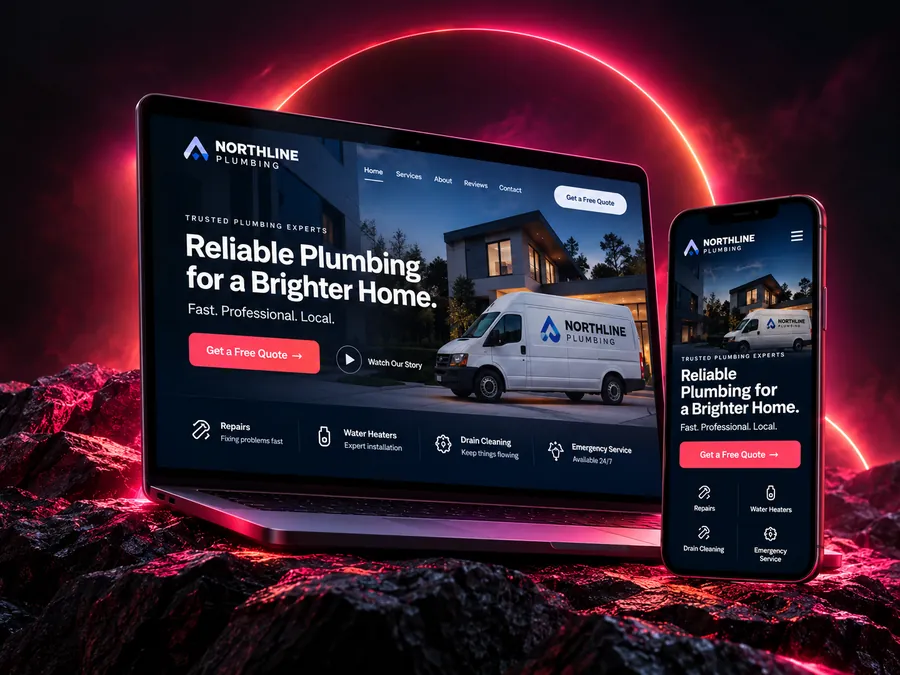
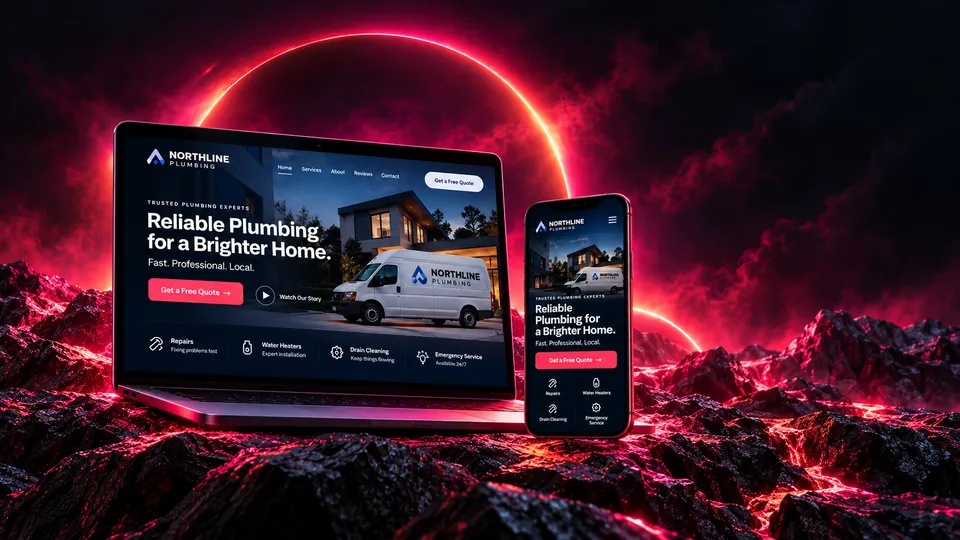
Add phone and tablet menu; new hero and Design with purpose photos
Claude-Session: https://claude.ai/code/session_01TLyxz4xV85Pj5AXPiLvVwY

diff --git a/index.html b/index.html
@@ -275,7 +275,7 @@
 <link rel="preconnect" href="https://fonts.googleapis.com">
 <link rel="preconnect" href="https://fonts.gstatic.com" crossorigin="">
 <link href="https://fonts.googleapis.com/css2?family=Bodoni+Moda:ital,wght@0,600;0,700;0,800;1,600;1,700;1,800&amp;family=Archivo:wght@400;500;600;700;800&amp;family=Archivo+Black&amp;family=Space+Grotesk:wght@500;600;700&amp;family=Cormorant+Garamond:ital,wght@0,600;0,700;1,600;1,700&amp;display=swap" rel="stylesheet">
-<link rel="preload" as="image" href="/hero-devices.webp" imagesrcset="/hero-devices-900.webp 900w, /hero-devices.webp 1448w" imagesizes="(max-width: 1020px) 100vw, 58vw" type="image/webp" fetchpriority="high">
+<link rel="preload" as="image" href="/hero-devices.webp" imagesrcset="/hero-devices-900.webp 960w, /hero-devices.webp 1672w" imagesizes="(max-width: 1020px) 100vw, 68vw" type="image/webp" fetchpriority="high">
 <!-- Akira Digital AI Assistant: external (CSP 'self') so it runs; the app framework blocks inline scripts -->
 <script src="/akira-widget-init.js"></script>
 <script src="./resources.js"></script>
@@ -654,10 +654,28 @@
   /* ---------- hero v3: supplied device photo ---------- */
   .akx-hero2 { background: radial-gradient(ellipse 45% 50% at 8% 0%, rgba(var(--akx-coral),.14), transparent 70%), rgb(8,6,9); }
   .akx-hero2 .akx-hero-grid { padding-bottom: 0; }
-  @media (min-width: 1021px) { .akx-hero2 .akx-hero-grid { grid-template-columns: minmax(0, .95fr) minmax(0, 1.05fr); } }
-  .akx-shot { position: relative; z-index: 1; margin: clamp(-5rem, -6vw, -2rem) clamp(-3rem, -4vw, -1.25rem) 0 -20%; }
-  .akx-shot img { display: block; width: 100%; height: auto; -webkit-mask-image: linear-gradient(90deg, transparent 0%, #000 20%), linear-gradient(0deg, transparent 0%, #000 16%), linear-gradient(180deg, transparent 0%, #000 12%); -webkit-mask-composite: source-in; mask-image: linear-gradient(90deg, transparent 0%, #000 20%), linear-gradient(0deg, transparent 0%, #000 16%), linear-gradient(180deg, transparent 0%, #000 12%); mask-composite: intersect; }
+  @media (min-width: 1021px) { .akx-hero2 .akx-hero-grid { grid-template-columns: minmax(0, .66fr) minmax(0, 1.34fr); gap: clamp(1.5rem, 3vw, 3rem); } .akx-hero2 .akx-h1 { font-size: clamp(2rem, 3.22vw, 3.15rem); } .akx-hero2 .akx-hero-sub { font-size: 1.02rem; } .akx-hero2 .akx-hero-ctas { flex-wrap: nowrap; gap: .7rem; } .akx-hero2 .akx-hero-ctas .akx-btn { padding: .85rem 1.05rem; font-size: .72rem; letter-spacing: .1em; gap: .5rem; } .akx-hero2 .akx-hero-tags2 { display: grid; grid-template-columns: auto auto; justify-content: start; gap: .7rem 2rem; } }
+  .akx-shot { position: relative; z-index: 1; margin: clamp(-3rem, -3vw, -1rem) clamp(-3rem, -4vw, -1.25rem) 0 -14%; }
+  .akx-shot img { display: block; width: 100%; height: auto; -webkit-mask-image: linear-gradient(90deg, transparent 0%, #000 11%, #000 94%, transparent 100%), linear-gradient(0deg, transparent 0%, #000 14%), linear-gradient(180deg, transparent 0%, #000 10%); -webkit-mask-composite: source-in; mask-image: linear-gradient(90deg, transparent 0%, #000 11%, #000 94%, transparent 100%), linear-gradient(0deg, transparent 0%, #000 14%), linear-gradient(180deg, transparent 0%, #000 10%); mask-composite: intersect; }
   @media (max-width: 1020px) { .akx-shot { margin: 0 clamp(-3rem, -4vw, -1.25rem); } .akx-shot img { -webkit-mask-image: linear-gradient(0deg, transparent 0%, #000 16%), linear-gradient(180deg, transparent 0%, #000 12%); mask-image: linear-gradient(0deg, transparent 0%, #000 16%), linear-gradient(180deg, transparent 0%, #000 12%); } }
+
+  /* ---------- design with purpose photo ---------- */
+  .akx-approach-photo { position: relative; border-radius: 16px; overflow: hidden; border: 1px solid rgba(var(--akx-pink),.35); box-shadow: 0 30px 80px rgba(0,0,0,.55), 0 0 50px rgba(var(--akx-pink),.16); }
+  .akx-approach-photo img { display: block; width: 100%; height: auto; }
+  @media (max-width: 1020px) { .akx-approach-photo { order: 2; } }
+  /* ---------- menu for phones and tablets ---------- */
+  .akx-burger { display: none; flex: 0 0 auto; width: 44px; height: 44px; padding: 0; border-radius: 8px; border: 1px solid rgba(255,255,255,.28); background: rgba(255,255,255,.04); cursor: pointer; flex-direction: column; align-items: center; justify-content: center; gap: 5px; }
+  .akx-burger span { display: block; width: 20px; height: 2px; border-radius: 2px; background: #fff; transition: transform .22s ease, opacity .18s ease; }
+  .akx-menu { position: absolute; left: 0; right: 0; top: 100%; max-height: calc(100vh - 4.6rem); max-height: calc(100dvh - 4.6rem); overflow-y: auto; padding: .6rem clamp(1.25rem, 4vw, 3rem) 1.6rem; box-sizing: border-box; background: #0b0b0e !important; border-bottom: 1px solid rgba(var(--akx-pink),.45); box-shadow: 0 30px 60px rgba(0,0,0,.6); }
+  .akx-menu-link, a.akx-menu-link { display: flex; align-items: center; min-height: 52px; border-bottom: 1px solid rgba(255,255,255,.08); font-size: 1.1rem; font-weight: 600; color: #fff; }
+  .akx-menu-link:hover { color: rgb(var(--akx-pink)); }
+  .akx-menu-foot { display: flex; flex-wrap: wrap; align-items: center; gap: .9rem 1.2rem; padding-top: 1.3rem; }
+  .akx-menu-tel, a.akx-menu-tel { display: inline-flex; align-items: center; gap: .55rem; min-height: 44px; font-size: 1.02rem; font-weight: 700; color: #fff; }
+  .akx-menu-tel svg { width: 16px; height: 16px; color: rgb(var(--akx-pink)); }
+  .akx-menu-foot .akx-btn { flex: 1 1 100%; }
+  @media (max-width: 1240px) { .akx-burger { display: inline-flex; } }
+  @media (min-width: 1241px) { .akx-menu { display: none !important; } }
+  @media (max-width: 420px) { .akx-nav-cta { padding: .5rem .6rem !important; font-size: .62rem !important; } .akx-burger, .akx-nav a[href^="tel:"]:not(.akx-menu-tel) { width: 40px; min-width: 40px; padding-left: 0 !important; padding-right: 0 !important; justify-content: center; } .akx-nav-right { gap: .35rem !important; } .akx-nav { padding-left: .75rem !important; padding-right: .75rem !important; } }
 </style>
 </head>
 <body>
@@ -687,6 +705,15 @@
 
       <a href="tel:+13234054959" aria-label="Call Akira Digital on (323) 405-4959" style="display: inline-flex; align-items: center; gap: .5rem; padding: .65rem 1rem; min-height: 44px; box-sizing: border-box; border-radius: 8px; border: 1px solid rgba(var(--akx-pink),.45); background: rgba(var(--akx-pink),.08); color: rgb(var(--ak-ink-rgb)); font-family: 'Archivo', sans-serif; font-weight: 700; font-size: .76rem; letter-spacing: .04em; white-space: nowrap; transition: all .18s ease;" style-hover="border-color: rgba(var(--akx-pink),.9); background: rgba(var(--akx-pink),.16);"><svg width="13" height="13" viewBox="0 0 24 24" fill="none" stroke="currentColor" stroke-width="2.2" stroke-linecap="round" stroke-linejoin="round" aria-hidden="true" focusable="false"><path d="M22 16.92v3a2 2 0 0 1-2.18 2 19.79 19.79 0 0 1-8.63-3.07 19.5 19.5 0 0 1-6-6 19.79 19.79 0 0 1-3.07-8.67A2 2 0 0 1 4.11 2h3a2 2 0 0 1 2 1.72c.13.96.36 1.9.7 2.81a2 2 0 0 1-.45 2.11L8.09 9.91a16 16 0 0 0 6 6l1.27-1.27a2 2 0 0 1 2.11-.45c.9.34 1.85.57 2.81.7A2 2 0 0 1 22 16.92z"/></svg><span class="ak-tel-num">(323) 405-4959</span></a>
       <a href="#contact" class="akx-btn akx-btn-primary akx-btn-sm akx-nav-cta">Start a Project <span class="akx-nav-cta-arrow" aria-hidden="true">→</span></a>
+      <button type="button" class="akx-burger" aria-label="Menu" aria-controls="akx-menu" aria-expanded="{{ navExpanded }}" onClick="{{ navToggle }}"><span style="transform: {{ navBar1 }};"></span><span style="opacity: {{ navBar2 }};"></span><span style="transform: {{ navBar3 }};"></span></button>
+    </div>
+    <div id="akx-menu" class="akx-menu" style="display: {{ navDisplay }};">
+      <a href="#services" class="akx-menu-link" onClick="{{ navClose }}">Services</a><a href="#concepts" class="akx-menu-link" onClick="{{ navClose }}">Concepts</a><a href="#industries" class="akx-menu-link" onClick="{{ navClose }}">Industries</a><a href="#about" class="akx-menu-link" onClick="{{ navClose }}">About</a><a href="#pricing" class="akx-menu-link" onClick="{{ navClose }}">Pricing</a><a href="#faq" class="akx-menu-link" onClick="{{ navClose }}">Questions</a><a href="#contact" class="akx-menu-link" onClick="{{ navClose }}">Contact</a>
+      <div class="akx-menu-foot">
+        <span class="akx-live"><i></i><b>Taking projects</b></span>
+        <a href="tel:+13234054959" class="akx-menu-tel" onClick="{{ navClose }}"><svg width="13" height="13" viewBox="0 0 24 24" fill="none" stroke="currentColor" stroke-width="2.2" stroke-linecap="round" stroke-linejoin="round" aria-hidden="true" focusable="false"><path d="M22 16.92v3a2 2 0 0 1-2.18 2 19.79 19.79 0 0 1-8.63-3.07 19.5 19.5 0 0 1-6-6 19.79 19.79 0 0 1-3.07-8.67A2 2 0 0 1 4.11 2h3a2 2 0 0 1 2 1.72c.13.96.36 1.9.7 2.81a2 2 0 0 1-.45 2.11L8.09 9.91a16 16 0 0 0 6 6l1.27-1.27a2 2 0 0 1 2.11-.45c.9.34 1.85.57 2.81.7A2 2 0 0 1 22 16.92z"/></svg><span>(323) 405-4959</span></a>
+        <a href="#contact" class="akx-btn akx-btn-primary" onClick="{{ navClose }}">Start a Project <span aria-hidden="true">→</span></a>
+      </div>
     </div>
   </nav>
 
@@ -706,7 +733,7 @@
           </div>
         </div>
         <div class="akx-shot">
-          <img src="/hero-devices.webp" srcset="/hero-devices-900.webp 900w, /hero-devices.webp 1448w" sizes="(max-width: 1020px) 100vw, 58vw" alt="A plumbing company website designed by Akira Digital, shown on a laptop and a phone" width="1448" height="1086" decoding="async" fetchpriority="high">
+          <img src="/hero-devices.webp" srcset="/hero-devices-900.webp 960w, /hero-devices.webp 1672w" sizes="(max-width: 1020px) 100vw, 68vw" alt="A plumbing company website designed by Akira Digital, shown on a laptop and a phone" width="1672" height="941" decoding="async" fetchpriority="high">
         </div>
       </div>
     </div>
@@ -718,11 +745,8 @@
 
   <section id="approach" class="akx-sec akx-sec--alt">
     <div class="akx-wrap akx-approach">
-      <div class="akx-approach-art" aria-hidden="true">
-        <div class="akx-laptop">
-          <div class="akx-laptop-screen"><div class="akx-site" style="font-family: 'Cormorant Garamond', Georgia, serif; color: #ffffff;"><img class="akx-site-photo" src="/concepts/ember-oak-med-spa.jpg" alt="Med spa website concept showing a softly lit treatment room" width="1000" height="625" decoding="async" loading="lazy"><div class="akx-site-shade" style="background: linear-gradient(90deg, rgba(46,27,18,.9) 0%, rgba(46,27,18,.62) 48%, rgba(46,27,18,.05) 100%);"></div><div class="akx-site-bar"><span class="akx-site-logo">Ember &amp; Oak<small>Med Spa</small></span><span class="akx-site-nav"><span>Home</span><span>Services</span><span>About</span><span>Contact</span></span><span class="akx-site-pill" style="background: #f6ede4; color: #3a2418;">Book Appointment</span></div><div class="akx-site-body"><div class="akx-site-h">Advanced Aesthetics. Natural Results.</div><div class="akx-site-sub">Confidence looks good on you.</div><span class="akx-site-cta" style="background: #E5604F; color: #ffffff;">Book a Consultation →</span></div></div></div>
-          <div class="akx-laptop-base"></div>
-        </div>
+      <div class="akx-approach-photo">
+        <img src="/design-with-purpose.webp" srcset="/design-with-purpose-800.webp 800w, /design-with-purpose.webp 1448w" sizes="(max-width: 1020px) 100vw, 52vw" alt="A med spa website concept by Akira Digital, shown on a laptop on a dark marble table" width="1448" height="1086" loading="lazy" decoding="async">
       </div>
       <div>
         <span class="akx-eyebrow">Design with purpose</span>
@@ -1659,7 +1683,7 @@ class Component extends DCLogic {
   state = {
     bizName: '', bizWhat: '', bizCity: '', accent: 'rgb(var(--ak-accent-rgb))',
     size: 1, addons: { calls: false, seo: false, brand: false, logo: false, aiSetup: false, aiMonthly: false, care: false }, designHours: 0,
-    sent: false, serpFixed: false, conceptFilter: 'all',
+    sent: false, serpFixed: false, conceptFilter: 'all', navOpen: false,
     preset: 0, pairing: 0, layout: 0, previewLight: false
   };
 
@@ -1879,6 +1903,13 @@ class Component extends DCLogic {
 
       problems: [{"n": "01", "hue": "rgb(255,107,74)", "soft": "rgba(255,107,74,.12)", "t": "You're hard to find", "d": "If Google can't tell what you do or where you do it, it has nothing to show. Someone else gets that search."}, {"n": "02", "hue": "rgb(255,66,112)", "soft": "rgba(255,66,112,.12)", "t": "It's frustrating on a phone", "d": "Most people will look you up from their phone. If they have to pinch and zoom to find your number, they'll go back and tap the next result."}, {"n": "03", "hue": "rgb(255,46,126)", "soft": "rgba(255,46,126,.12)", "t": "It never asks for the call", "d": "A lot of small business sites describe the company and stop there. There's no number in the corner, no form, and no clear next step."}],
 
+      navDisplay: this.state.navOpen ? 'block' : 'none',
+      navExpanded: this.state.navOpen ? 'true' : 'false',
+      navBar1: this.state.navOpen ? 'translateY(7px) rotate(45deg)' : 'none',
+      navBar2: this.state.navOpen ? '0' : '1',
+      navBar3: this.state.navOpen ? 'translateY(-7px) rotate(-45deg)' : 'none',
+      navToggle: () => this.setState((s) => ({ navOpen: !s.navOpen })),
+      navClose: () => this.setState({ navOpen: false }),
       conceptChips: [{"id": "all", "label": "All Concepts"}, {"id": "home", "label": "Home Services"}, {"id": "pro", "label": "Professional Services"}, {"id": "health", "label": "Health & Wellness"}, {"id": "hospitality", "label": "Hospitality"}, {"id": "outdoor", "label": "Outdoor Services"}].map((f) => {
         const on = this.state.conceptFilter === f.id;
         return {
